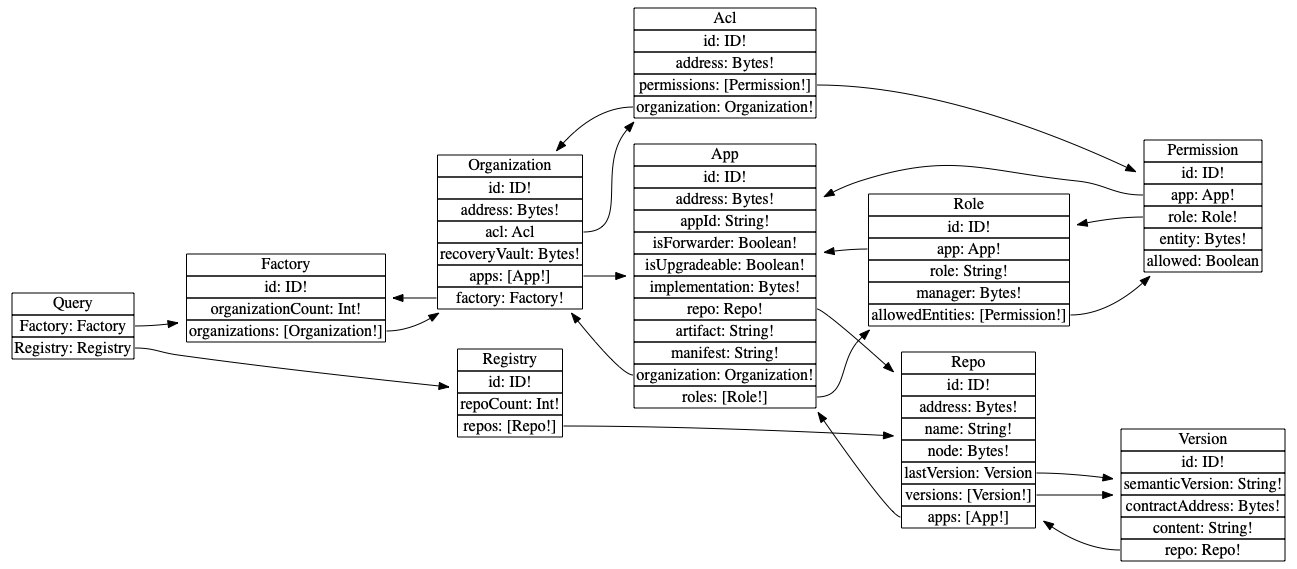
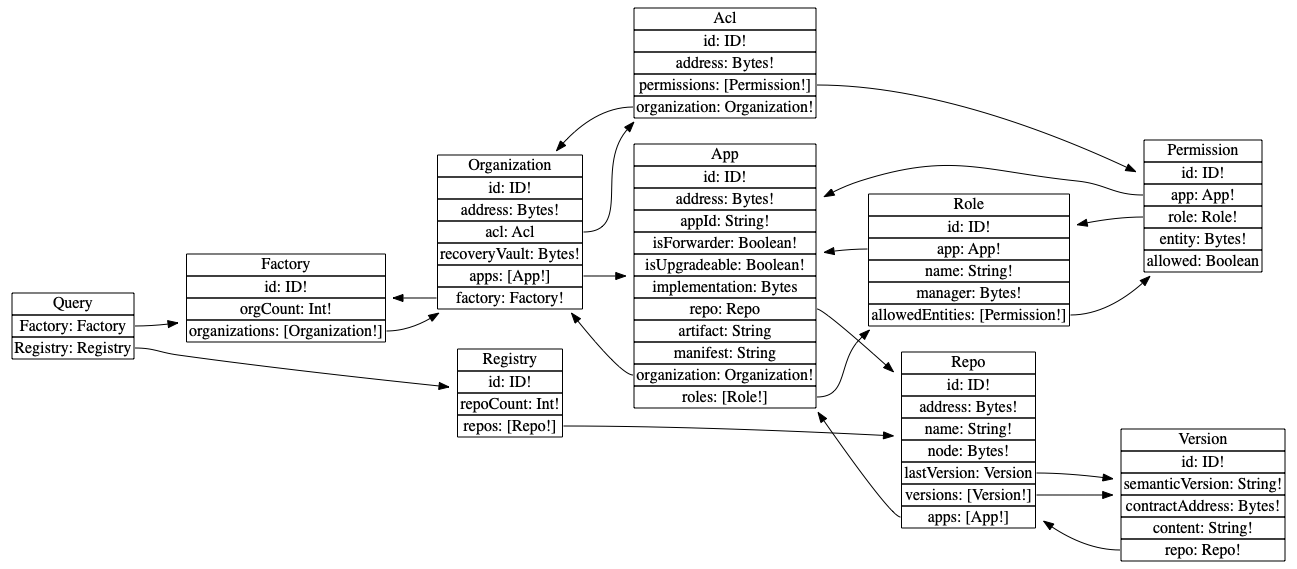
Style: change entity names and update schema

Changed region(s): [[0.4934, 0.478, 0.6168, 0.6274], [0.7093, 0.4482, 0.771, 0.5079], [0.1542, 0.5378, 0.2776, 0.5677]]

diff --git a/src/mappings/organization.ts b/src/mappings/organization.ts
@@ -42,39 +42,32 @@ export function handleNewProxyApp(event: NewAppProxyEvent): void {
     // Check if app is forwarder
     let isForwarder : boolean
     const appForwarder = AppProxyForwarderContract.bind(event.params.proxy)
-    let callResult = appForwarder.try_isForwarder()
-    if (callResult.reverted) {
+    let callForwarderResult = appForwarder.try_isForwarder()
+    if (callForwarderResult.reverted) {
       isForwarder = false
     } else {
-      isForwarder = callResult.value
+      isForwarder = callForwarderResult.value
     }
 
     // Handle implementation
     let implementation : Address
     if (isUpgradeable) {
       const appUpgradeable = AppProxyUpgradeableContract.bind(event.params.proxy)
-      let callResult = appUpgradeable.try_implementation()
-      if (callResult.reverted) {
+      let callAppResult = appUpgradeable.try_implementation()
+      if (callAppResult.reverted) {
         log.info("appUpgradeable reverted", [])
       } else {
-        implementation = callResult.value
+        implementation = callAppResult.value
       }
     } else {
       const appPinned = AppProxyPinnedContract.bind(event.params.proxy)
-      let callResult = appPinned.try_implementation()
-      if (callResult.reverted) {
+      let callAppResult = appPinned.try_implementation()
+      if (callAppResult.reverted) {
         log.info("appPinned reverted", [])
       } else {
-        implementation = callResult.value
+        implementation = callAppResult.value
       }
     }
-
-    // // Use ens to resolve repo address
-    // const repo = resolveRepoAddress(event.params.appId).toHex()
-
-    // // Fetch files from ipfs
-    // const artifact = getAppMetadata(repo, 'artifact.json')
-    // const manifest = getAppMetadata(repo, 'manifest.json')
 
     // Create app
     let app = AppEntity.load(proxy)
@@ -84,10 +77,20 @@ export function handleNewProxyApp(event: NewAppProxyEvent): void {
       app.appId = appId
       app.isForwarder = isForwarder
       app.isUpgradeable = isUpgradeable
-      // app.repo = repo
-      // app.artifact = artifact
-      // app.manifest = manifest
       app.implementation = implementation
+      
+      // Use ens to resolve repo address
+      const repo = resolveRepoAddress(event.params.appId)
+
+      if (repo) {
+        // Fetch files from ipfs
+        const artifact = getAppMetadata(repo.toHex(), 'artifact.json')
+        const manifest = getAppMetadata(repo.toHex(), 'manifest.json')
+
+        app.repo = repo.toHex()
+        app.artifact = artifact
+        app.manifest = manifest
+      }
     }
 
     const orgApps = org.apps || []

diff --git a/src/helpers/ipfs.ts b/src/helpers/ipfs.ts
@@ -1,4 +1,4 @@
-import { ipfs, log } from '@graphprotocol/graph-ts'
+import { ipfs } from '@graphprotocol/graph-ts'
 
 import { Repo, Version } from '../types/schema'
 
@@ -10,10 +10,10 @@ export function getAppMetadata(
   const lastVersionId = repo.lastVersion
   const lastVersion = Version.load(lastVersionId)
 
-  const contentHash = lastVersion.content
+  const contentHash = lastVersion.content.split(':')[1]
 
   const filePath = `${contentHash}/${fileName}`
-  const file = ipfs.cat(filePath).toHexString()
+  const file = ipfs.cat(filePath).toString()
 
   return file
 }

diff --git a/src/mappings/factory.ts b/src/mappings/factory.ts
@@ -15,10 +15,10 @@ export function handleDeployDAO(event: DeployDAOEvent): void {
   // if no factory yet, set up empty
   if (factory == null) {
     factory = new FactoryEntity('1')
-    factory.organizationCount = 0
+    factory.orgCount = 0
     factory.organizations = []
   }
-  factory.organizationCount = factory.organizationCount + 1
+  factory.orgCount = factory.orgCount + 1
 
   // create new dao
   const org = new OrganizationEntity(event.params.dao.toHexString()) as OrganizationEntity

diff --git a/src/mappings/ACL.ts b/src/mappings/ACL.ts
@@ -69,7 +69,7 @@ export function handleChangePermissionManager(
   let role = RoleEntity.load(roleId)
   if (role == null) {
     role = new RoleEntity(roleId) as RoleEntity
-    role.role = roleName
+    role.name = roleName
     role.app = app
   }
 
